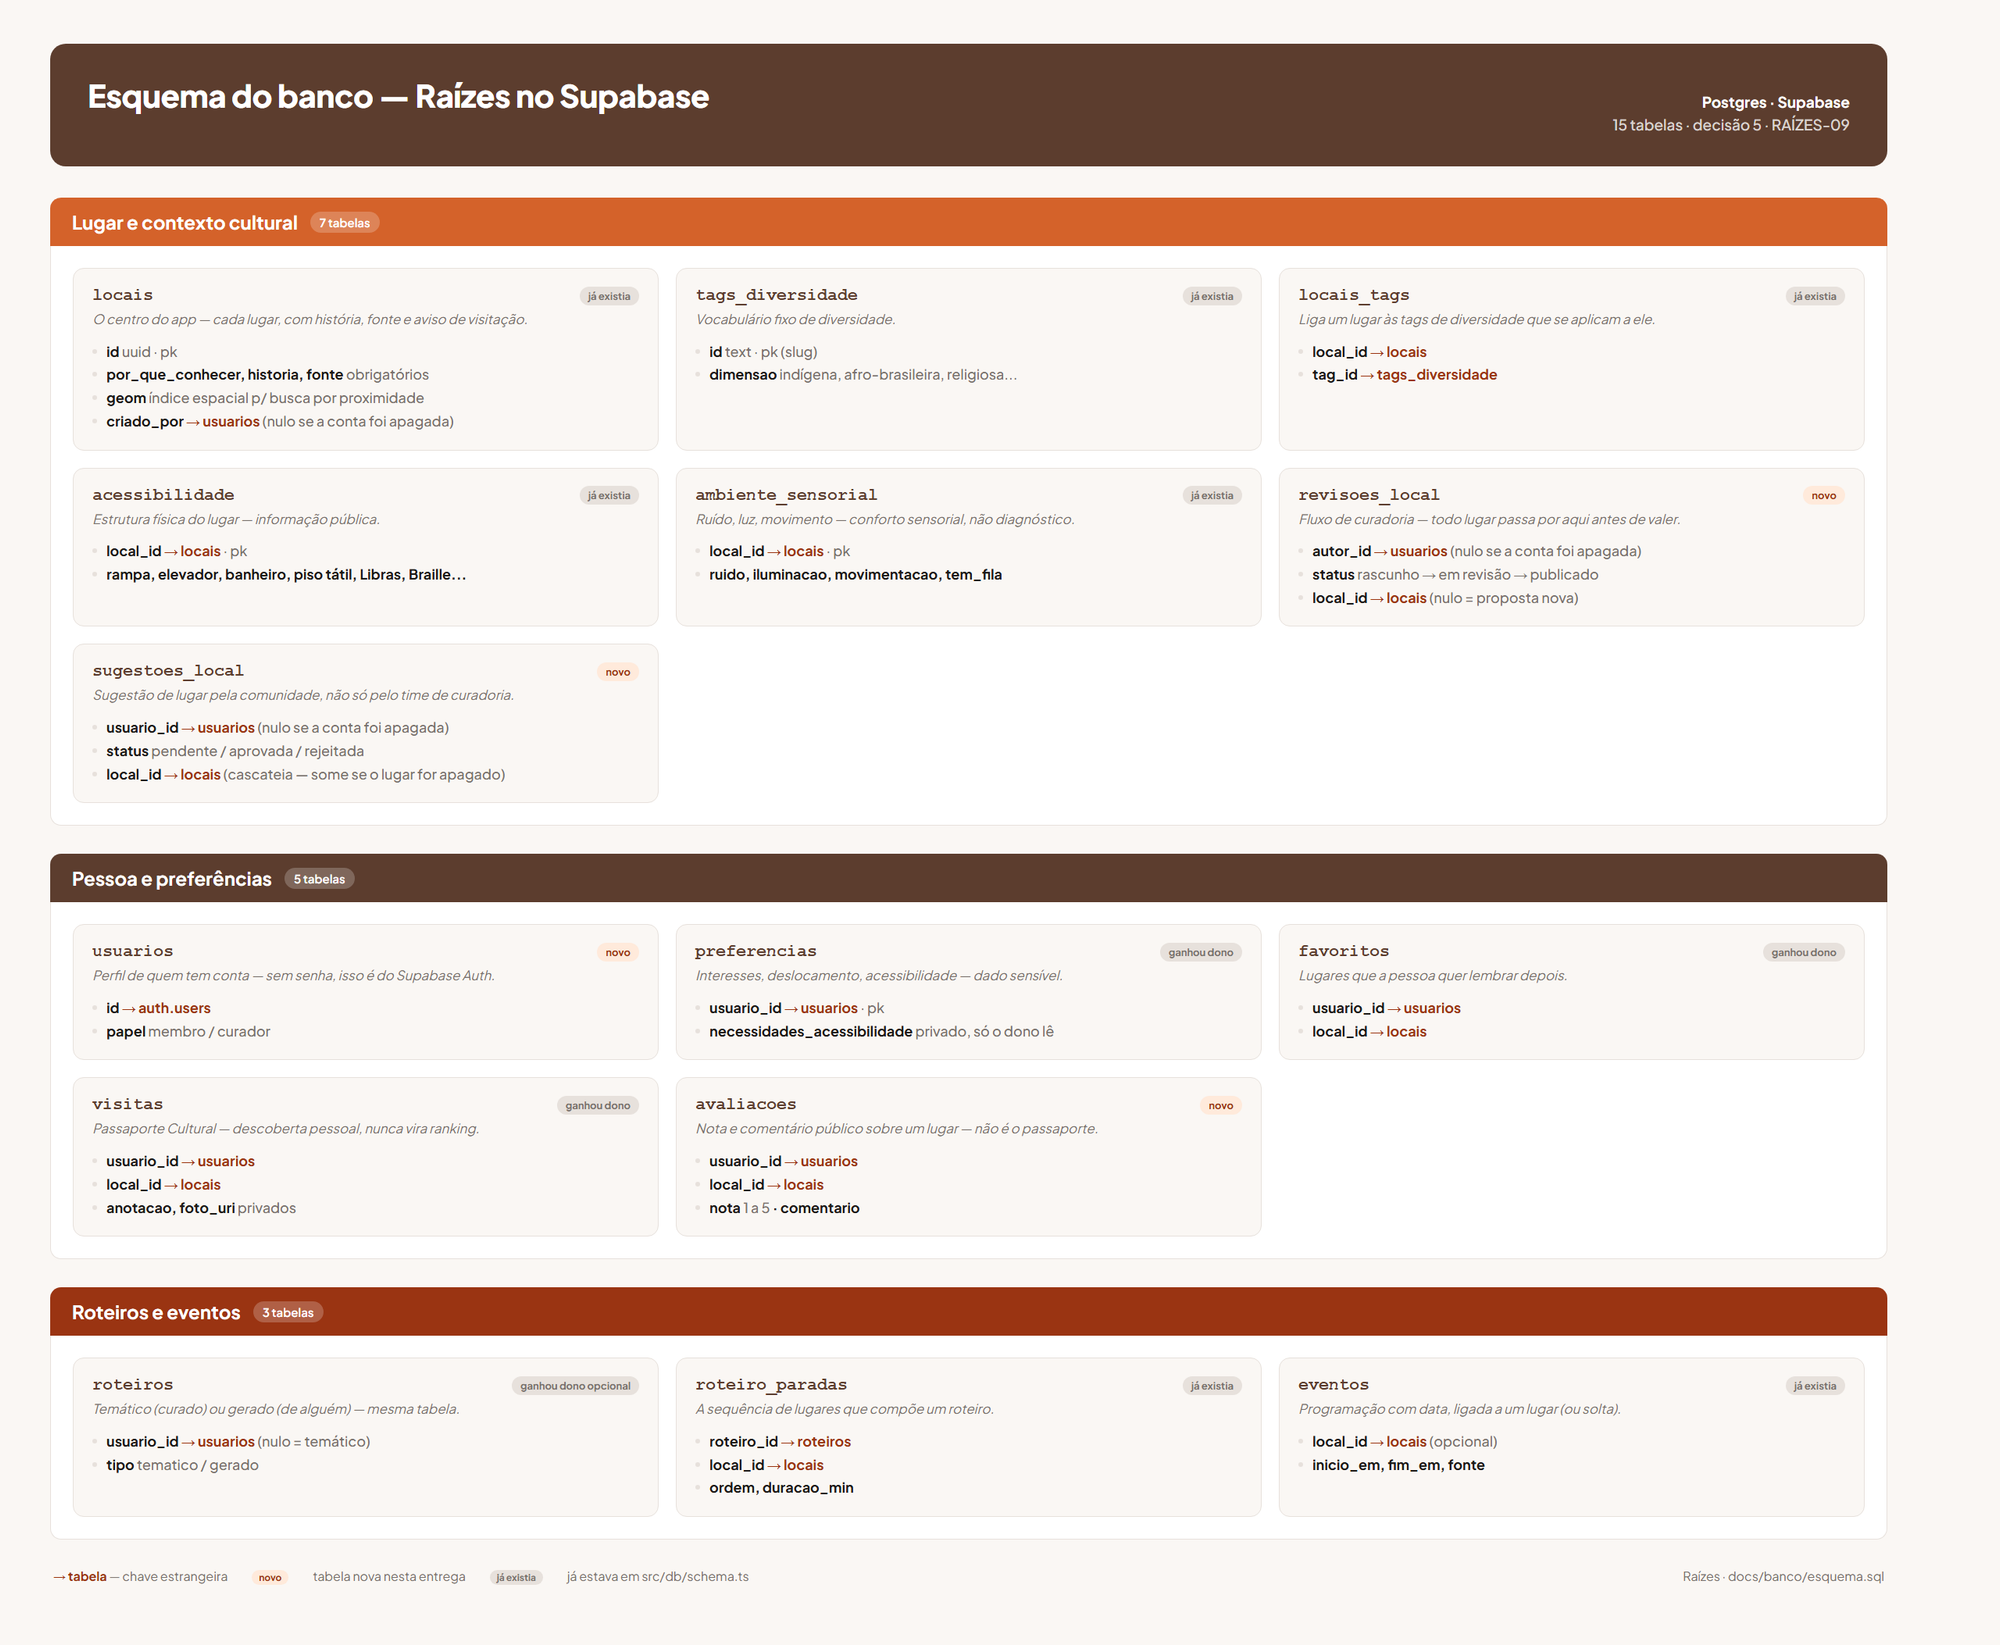
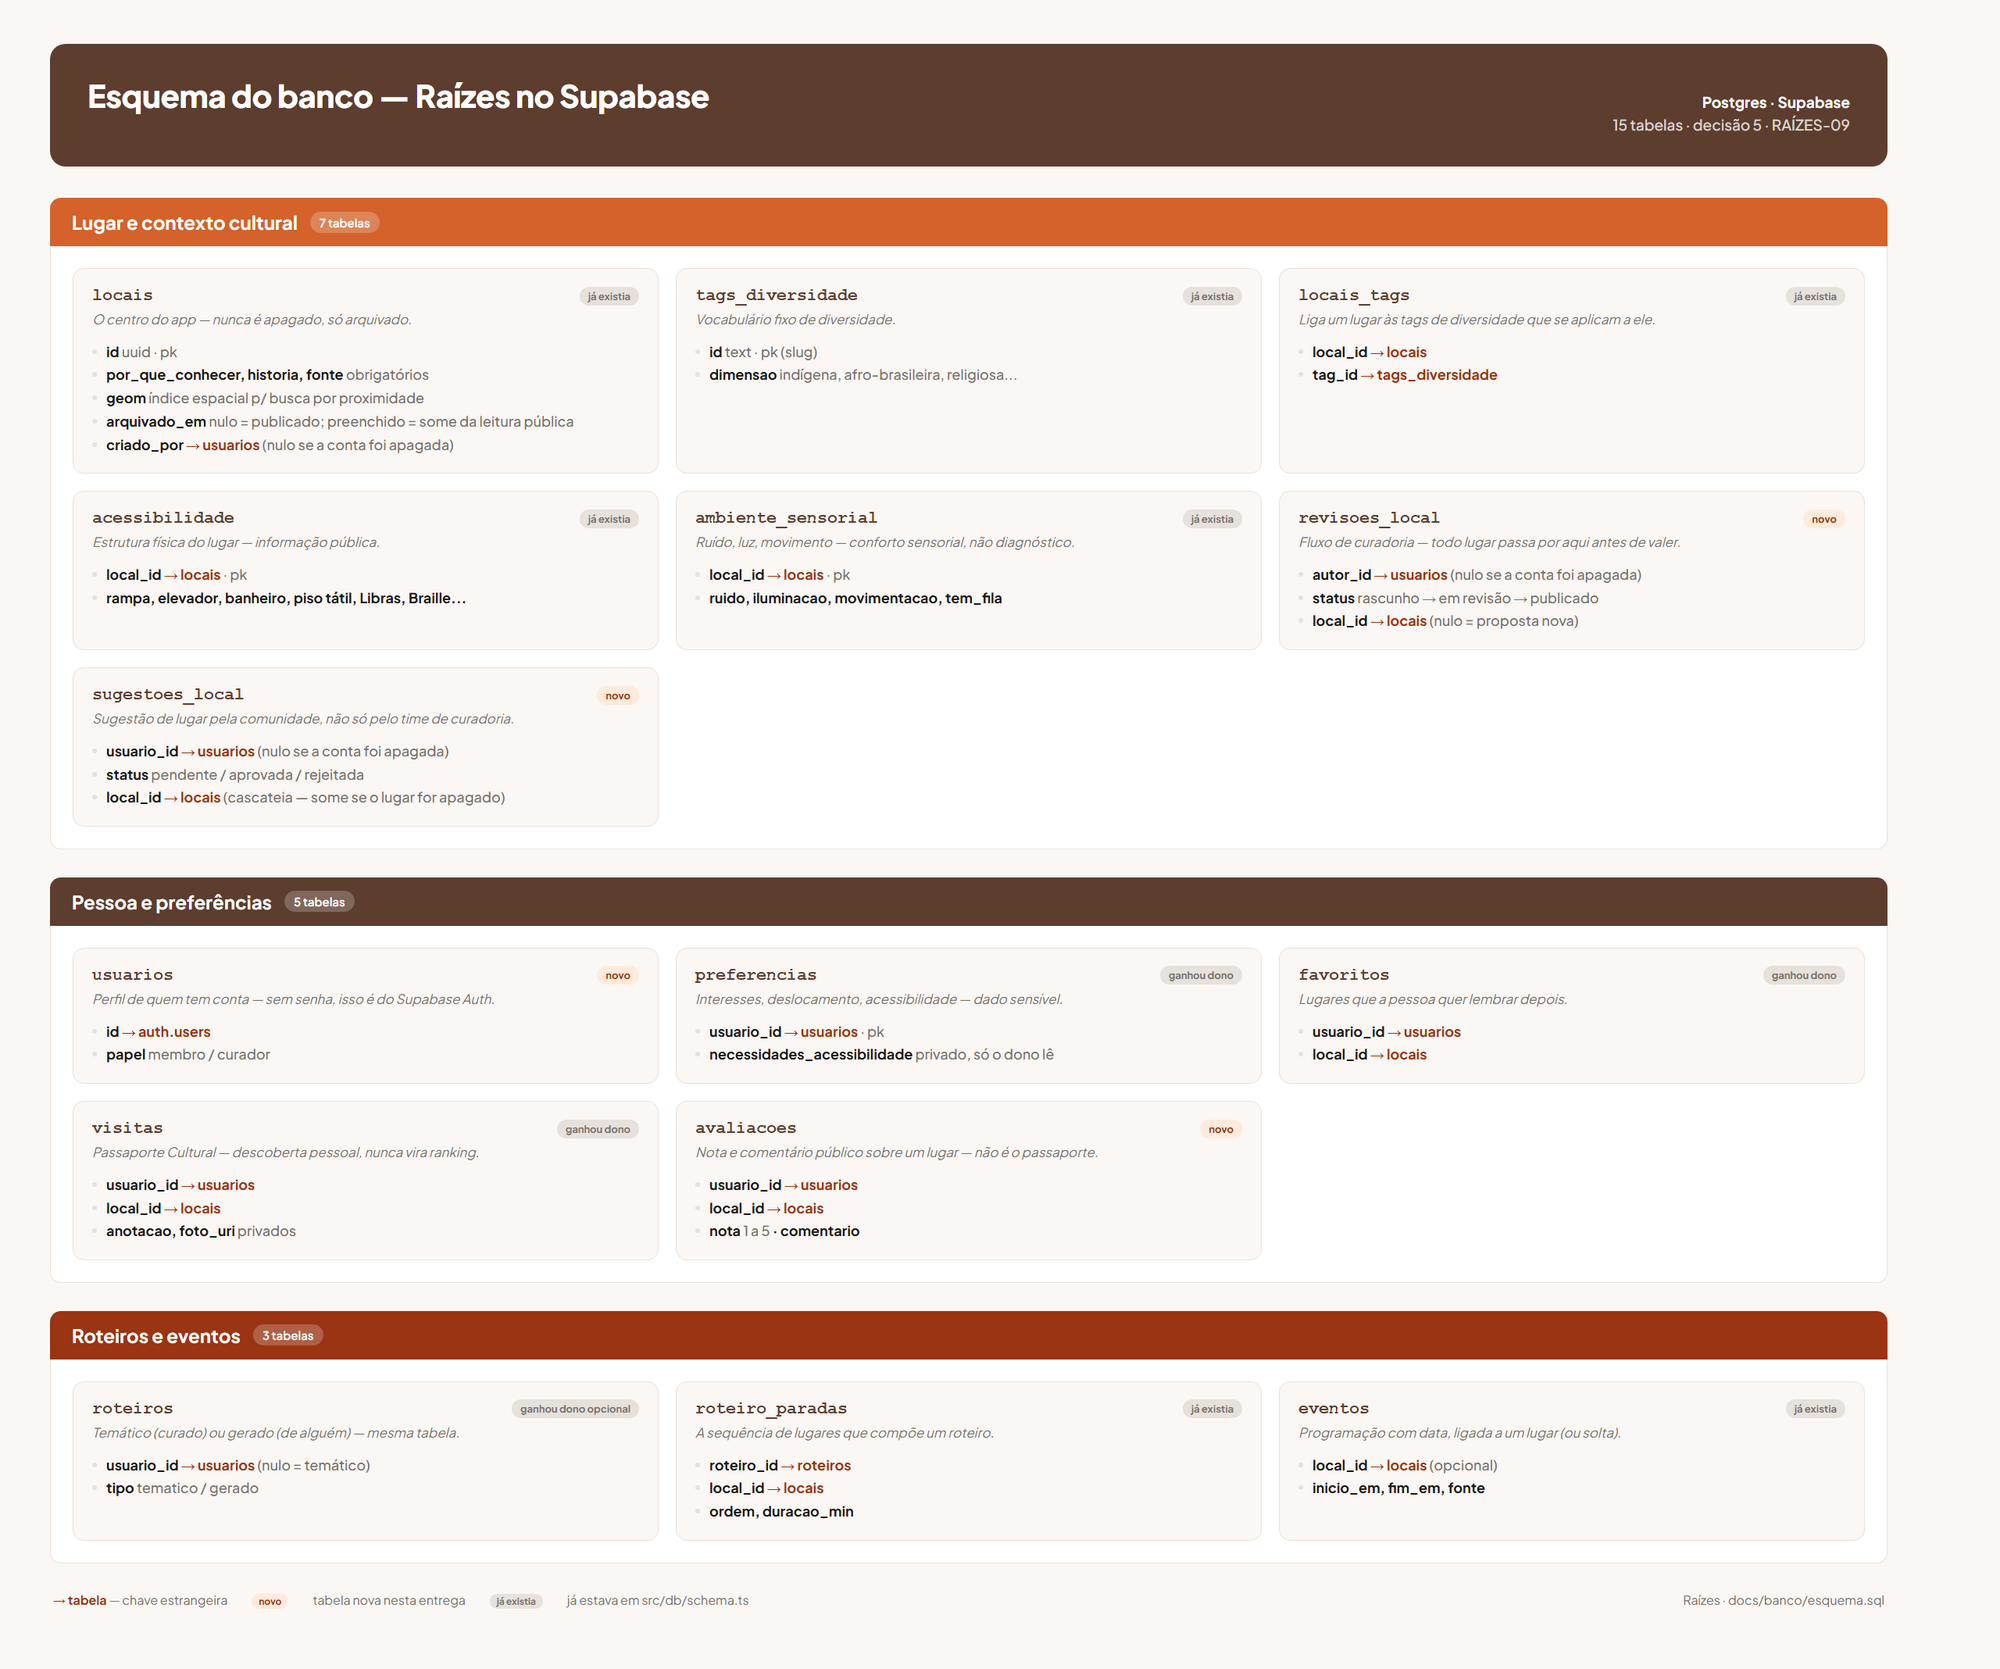
unifica a politica de exclusao em locais e da arquivamento como saida real
segunda auditoria achou 4 politicas de exclusao diferentes apontando pra
locais (favoritos/avaliacoes cascateavam mas nunca chegavam a rodar por
causa do restrict de visitas/roteiro_paradas; eventos/revisoes_local
faziam set null, deixando revisao viva sem dizer mais o que revisou).
simplifica pra dois grupos: cascade pro que e do proprio lugar
(locais_tags, acessibilidade, ambiente_sensorial, sugestoes_local),
restrict pro que e historico de pessoa/curadoria sobre o lugar
(favoritos, avaliacoes, visitas, roteiro_paradas, eventos,
revisoes_local).

locais ganha arquivado_em: a decisao "lugar nao se apaga, se despublica"
nao tinha, de fato, como despublicar. leitura publica passa a filtrar por
arquivado_em is null, curador continua vendo pra poder desarquivar.

usuarios entra na lista de FORCE ROW LEVEL SECURITY (tinha ficado de fora
por engano na correcao anterior).

DDL rodou limpo (EXIT=0) do zero contra Postgres 16 + PostGIS via docker.
testado com linha real: apagar local favoritado falha
(favoritos_local_id_fkey); arquivar some da leitura publica mas continua
visivel pro curador; apagar conta mantem local e revisao vivos com
autoria nula; isolamento de RLS entre duas usuarias reconfirmado depois
da mudanca na policy de locais.

diff --git a/docs/banco/diagrama.html b/docs/banco/diagrama.html
@@ -178,11 +178,12 @@
 
       <div class="card">
         <div class="card-top"><h3>locais</h3><span class="badge existia">já existia</span></div>
-        <p class="card-purpose">O centro do app — cada lugar, com história, fonte e aviso de visitação.</p>
+        <p class="card-purpose">O centro do app — nunca é apagado, só arquivado.</p>
         <ul class="fields">
           <li><b>id</b> <span class="type">uuid · pk</span></li>
           <li><b>por_que_conhecer, historia, fonte</b> <span class="type">obrigatórios</span></li>
           <li><b>geom</b> <span class="type">índice espacial p/ busca por proximidade</span></li>
+          <li><b>arquivado_em</b> <span class="type">nulo = publicado; preenchido = some da leitura pública</span></li>
           <li><b>criado_por</b> <span class="fk">→ usuarios</span> <span class="type">(nulo se a conta foi apagada)</span></li>
         </ul>
       </div>

diff --git a/docs/banco/esquema.md b/docs/banco/esquema.md
@@ -54,7 +54,9 @@ atividade e comunidades tradicionais. Esses quatro últimos campos
 continuam obrigatórios: é a decisão 3 do projeto, e ela não muda aqui.
 Ganhou um campo de latitude/longitude convertido automaticamente num
 formato geográfico, que é o que permite buscar "lugares perto de mim" sem
-escanear a tabela inteira.
+escanear a tabela inteira. Ganhou também `arquivado_em`: um lugar nunca é
+apagado (ver "O que acontece ao apagar uma conta..." abaixo), só arquivado
+— nulo é publicado, preenchido some da leitura pública.
 
 ### `tags_diversidade` — já existia, sem mudança de fundo
 Vocabulário fixo de diversidade: indígena, afro-brasileira, religiosa,
@@ -150,41 +152,47 @@ deste desenho, e vale contar o que era o furo, não só o que ficou:
   usuário autenticado podia alterar ou apagar o catálogo inteiro (inclusive
   por cascata, apagando uma tag). Leitura pública, escrita só curador.
 
-Uma auditoria independente (rodando o DDL de verdade fora do Supabase)
-achou mais duas coisas, nenhuma bloqueante, as duas já corrigidas: seis
-tabelas de dado pessoal (`visitas`, `favoritos`, `sugestoes_local`,
+Duas auditorias independentes (rodando o DDL de verdade fora do Supabase,
+em dois momentos) acharam coisas que já estão corrigidas: sete tabelas de
+dado pessoal (`usuarios`, `visitas`, `favoritos`, `sugestoes_local`,
 `preferencias`, `avaliacoes`, `roteiros`) tinham RLS ligado mas não
 `FORCE ROW LEVEL SECURITY` — sem `FORCE`, o dono da tabela passa por cima
 de toda política. No Supabase isso raramente aparece na prática, mas é
-defesa em profundidade barata. A outra foi a política de exclusão de conta,
-que virou sua própria seção abaixo.
+defesa em profundidade barata. A segunda auditoria também achou que a
+política de exclusão em volta de `locais` tinha quatro regras diferentes
+apontando pro mesmo lugar — duas delas nunca chegavam a executar — e que
+"lugar se despublica, não se apaga" (decisão 7) não tinha, de fato, um
+despublicar. As duas coisas viraram a seção abaixo.
 
-## O que acontece ao apagar uma conta
+## O que acontece ao apagar uma conta, e o que acontece ao tirar um lugar de cena
 
-Curadoria é o ativo mais caro do projeto (decisão 3 e decisão 7 de
+Curadoria é o ativo mais caro do projeto (decisões 3, 7 e 8 de
 `docs/DECISOES.md`). Apagar a conta de alguém não pode apagar o que essa
-pessoa cadastrou — então a exclusão de um usuário se comporta de três jeitos
-diferentes, dependendo do que a linha apagada representa:
+pessoa cadastrou, e um lugar nunca é apagado — só arquivado. As duas regras
+trabalham juntas:
 
-- **Some junto.** `favoritos`, `preferencias`, `visitas`, `roteiros` (e as
-  paradas desses roteiros) e `avaliacoes` são dado puramente pessoal, sem
-  valor nenhum fora do dono. Apagar a conta apaga tudo isso — é exatamente
-  o "direito ao esquecimento" funcionando.
-- **A autoria vira nula, o conteúdo fica.** Quem cadastrou um lugar
-  (`locais.criado_por`), quem escreveu ou revisou uma curadoria
+- **Dado pessoal some com a conta.** `favoritos`, `preferencias`, `visitas`,
+  `roteiros` (e as paradas desses roteiros) e `avaliacoes` são dado
+  puramente pessoal, sem valor nenhum fora do dono. Apagar a conta apaga
+  tudo isso — é o "direito ao esquecimento" funcionando.
+- **A autoria vira nula, o conteúdo de curadoria fica.** Quem cadastrou um
+  lugar (`locais.criado_por`), quem escreveu ou revisou uma curadoria
   (`revisoes_local.autor_id`, `revisoes_local.revisado_por`) e quem sugeriu
   ou avaliou uma sugestão (`sugestoes_local.usuario_id`,
   `sugestoes_local.revisado_por`) some da autoria, mas o lugar, a revisão e
-  a sugestão continuam existindo. Um local não tem dono nenhum de propósito
-  quando isso acontece — é o mesmo estado do conteúdo de carga inicial, que
-  nunca teve curador.
-- **Local não se apaga em silêncio.** Um lugar não deveria ser removido em
-  produção — o certo é despublicar. Se mesmo assim alguém tentar apagar um
-  local que é parada de algum roteiro (`roteiro_paradas`) ou tem visita
-  registrada (`visitas`), o banco recusa com erro de chave estrangeira. É
-  intencional: silenciosamente sumir com a parada de um roteiro ou a
-  lembrança de visita de alguém é pior do que a operação falhar e alguém
-  decidir o que fazer.
+  a sugestão continuam existindo — é o mesmo estado do conteúdo de carga
+  inicial, que nunca teve curador.
+- **Lugar nunca se apaga — só arquiva.** Tudo que é histórico de pessoa ou
+  de curadoria sobre um lugar (`favoritos`, `avaliacoes`, `visitas`,
+  `roteiro_paradas`, `eventos`, `revisoes_local`) bloqueia a exclusão desse
+  lugar com erro de chave estrangeira — silenciosamente sumir com o
+  favorito, a visita ou a revisão de alguém é pior do que a operação falhar.
+  O caminho de verdade pra tirar um lugar errado de cena é `locais.arquivado_em`:
+  preenchido, o lugar some da leitura pública mas continua existindo (e
+  visível pro curador, que é quem desarquiva se for o caso). O que é *do*
+  próprio lugar e não faz sentido sem ele — as tags de diversidade, a
+  acessibilidade, o ambiente sensorial, uma sugestão que virou esse lugar —
+  esses sim cascateiam quando o lugar (hipoteticamente) some.
 
 ## Observação sobre relacionamento e chave estrangeira
 

diff --git a/docs/DECISOES.md b/docs/DECISOES.md
@@ -174,3 +174,59 @@ De quebra, a auditoria também achou seis tabelas com RLS ligado mas sem
 `preferencias`, `avaliacoes`, `roteiros`) — sem `FORCE`, o dono da tabela
 ignora as políticas. No Supabase isso raramente importa na prática, mas é
 defesa em profundidade barata, então entrou junto nesta correção.
+
+---
+
+## 8. Tudo que aponta para `locais` se divide em só dois grupos, e `locais` ganha arquivamento
+
+Data: 14/09/2026
+
+Uma segunda auditoria, já em cima da main mergeada, achou duas coisas que a
+decisão 7 tinha deixado incoerentes entre si.
+
+**A primeira: seis referências a `locais` com quatro políticas de exclusão
+diferentes**, e duas delas nunca executavam. `favoritos.local_id` e
+`avaliacoes.local_id` estavam com `cascade` (a decisão 7 dizia isso —
+estava errada nesse ponto específico), mas como `visitas.local_id` e
+`roteiro_paradas.local_id` já bloqueavam a exclusão com `restrict`, a
+cascata nunca chegava a rodar de verdade. E `eventos.local_id` e
+`revisoes_local.local_id` faziam `set null`, o que deixava evento
+flutuando sem lugar e revisão de curadoria sem dizer mais o que revisou —
+prova em teste real: apagar um local deixava a revisão viva com
+`local_id` nulo.
+
+A correção simplifica pra dois grupos, e só dois:
+
+- **Cascata**, pro que é do próprio lugar e morre com ele:
+  `locais_tags`, `acessibilidade`, `ambiente_sensorial`,
+  `sugestoes_local.local_id` (já estava certo nesse).
+- **Restrict**, pra histórico de pessoa e de curadoria, que não pode
+  sumir em silêncio: `favoritos.local_id`, `avaliacoes.local_id`,
+  `visitas.local_id`, `roteiro_paradas.local_id`, `eventos.local_id`,
+  `revisoes_local.local_id`. `revisoes_local.local_id` continua aceitando
+  nulo — nulo ali significa "proposta de local novo, ainda sem registro em
+  `locais`", que é outra coisa e não mudou.
+
+**A segunda: a decisão 7 dizia "lugar não se apaga, se despublica", mas
+não existia despublicar.** `locais` não tinha nenhuma coluna de
+publicação, arquivamento ou status, e a leitura pública era
+`using (true)` sem filtro nenhum. Um lugar cadastrado errado, uma vez
+favoritado por alguém, ficava preso pra sempre — `restrict` bloqueia o
+DELETE, mas não existia outro caminho de saída.
+
+`locais` ganha `arquivado_em timestamptz` (nulo = publicado). A política
+de leitura pública passa a filtrar por `arquivado_em is null`, exceto pra
+curador, que continua vendo o lugar arquivado — é ele quem desarquiva.
+DELETE em `locais` continua sem política nenhuma, de propósito: apagar
+lugar nunca foi o caminho certo, e agora existe o caminho certo pra valer.
+
+E o `usuarios` ficou de fora da lista de `FORCE ROW LEVEL SECURITY` da
+decisão 7 por engano — guarda dado de pessoa (nome, papel) igual às
+outras seis. Entrou junto nesta correção.
+
+Comportamento verificado com linha real, não só DDL: apagar um lugar
+favoritado falha por `favoritos_local_id_fkey`; arquivar um lugar some da
+leitura pública mas continua visível pro curador; apagar a conta de quem
+curou mantém o lugar e a revisão vivos, só com autoria nula; isolamento de
+RLS entre duas usuárias continua intacto depois da mudança na política de
+`locais`.
